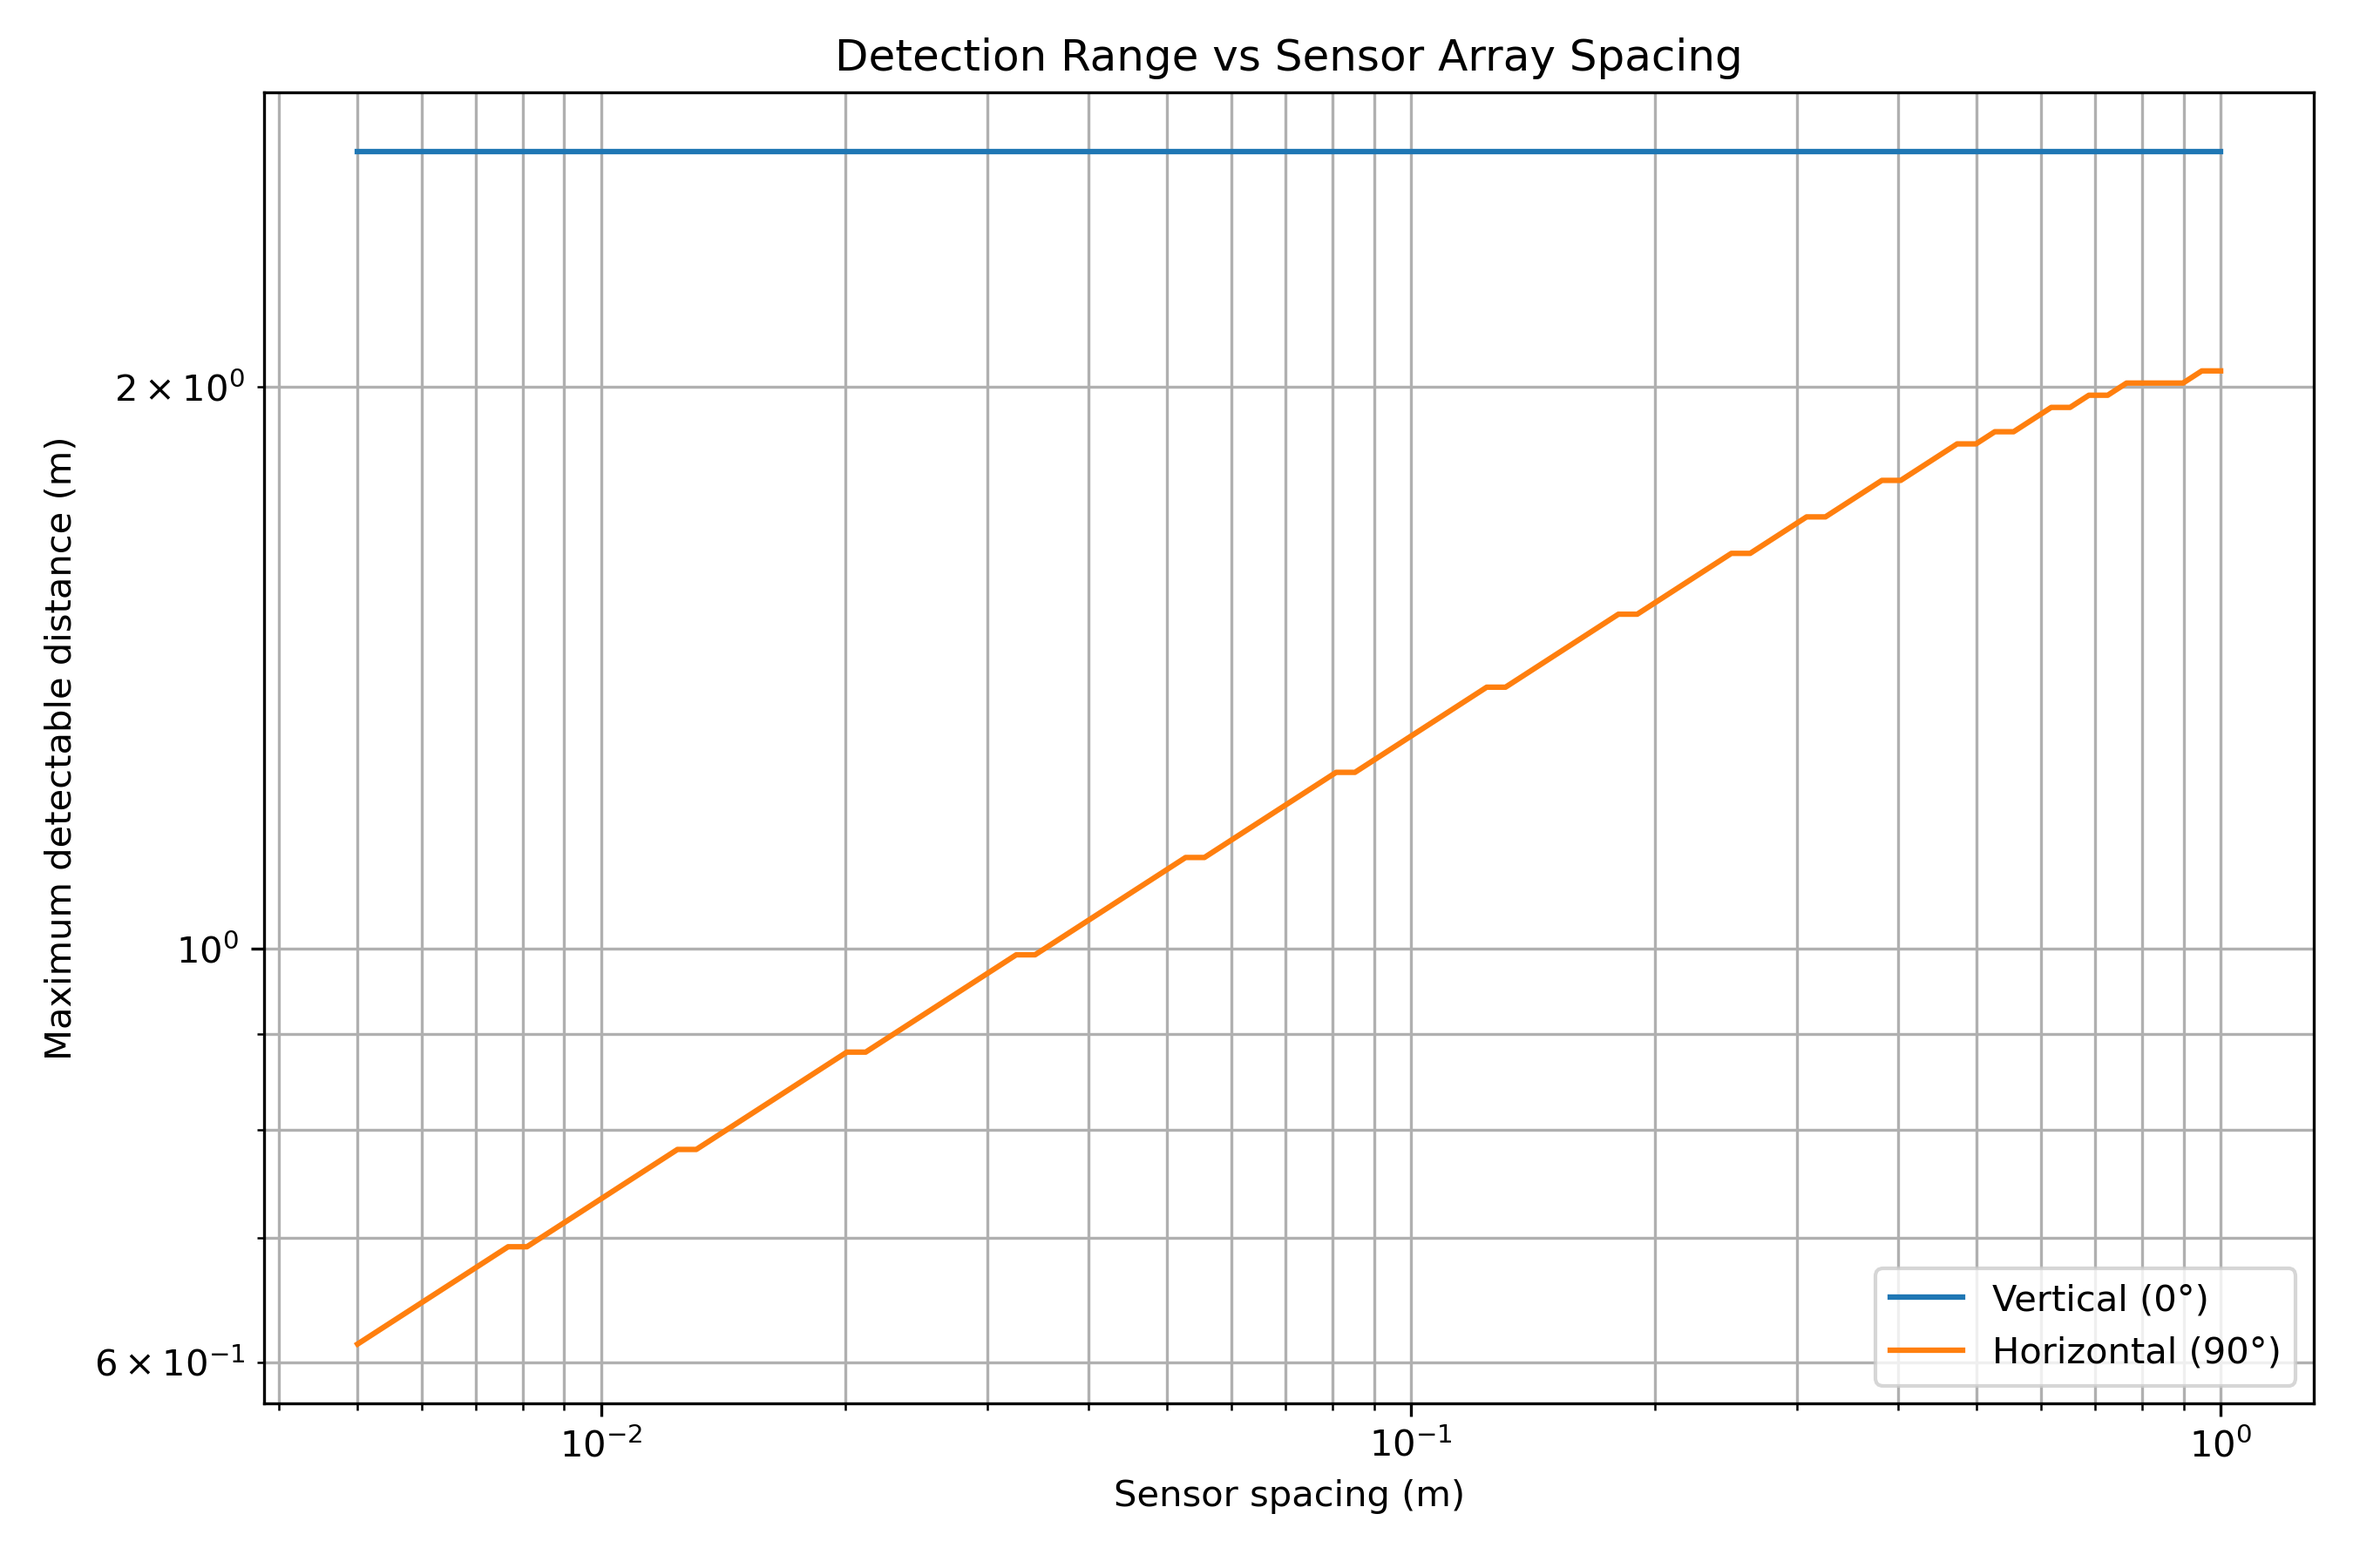
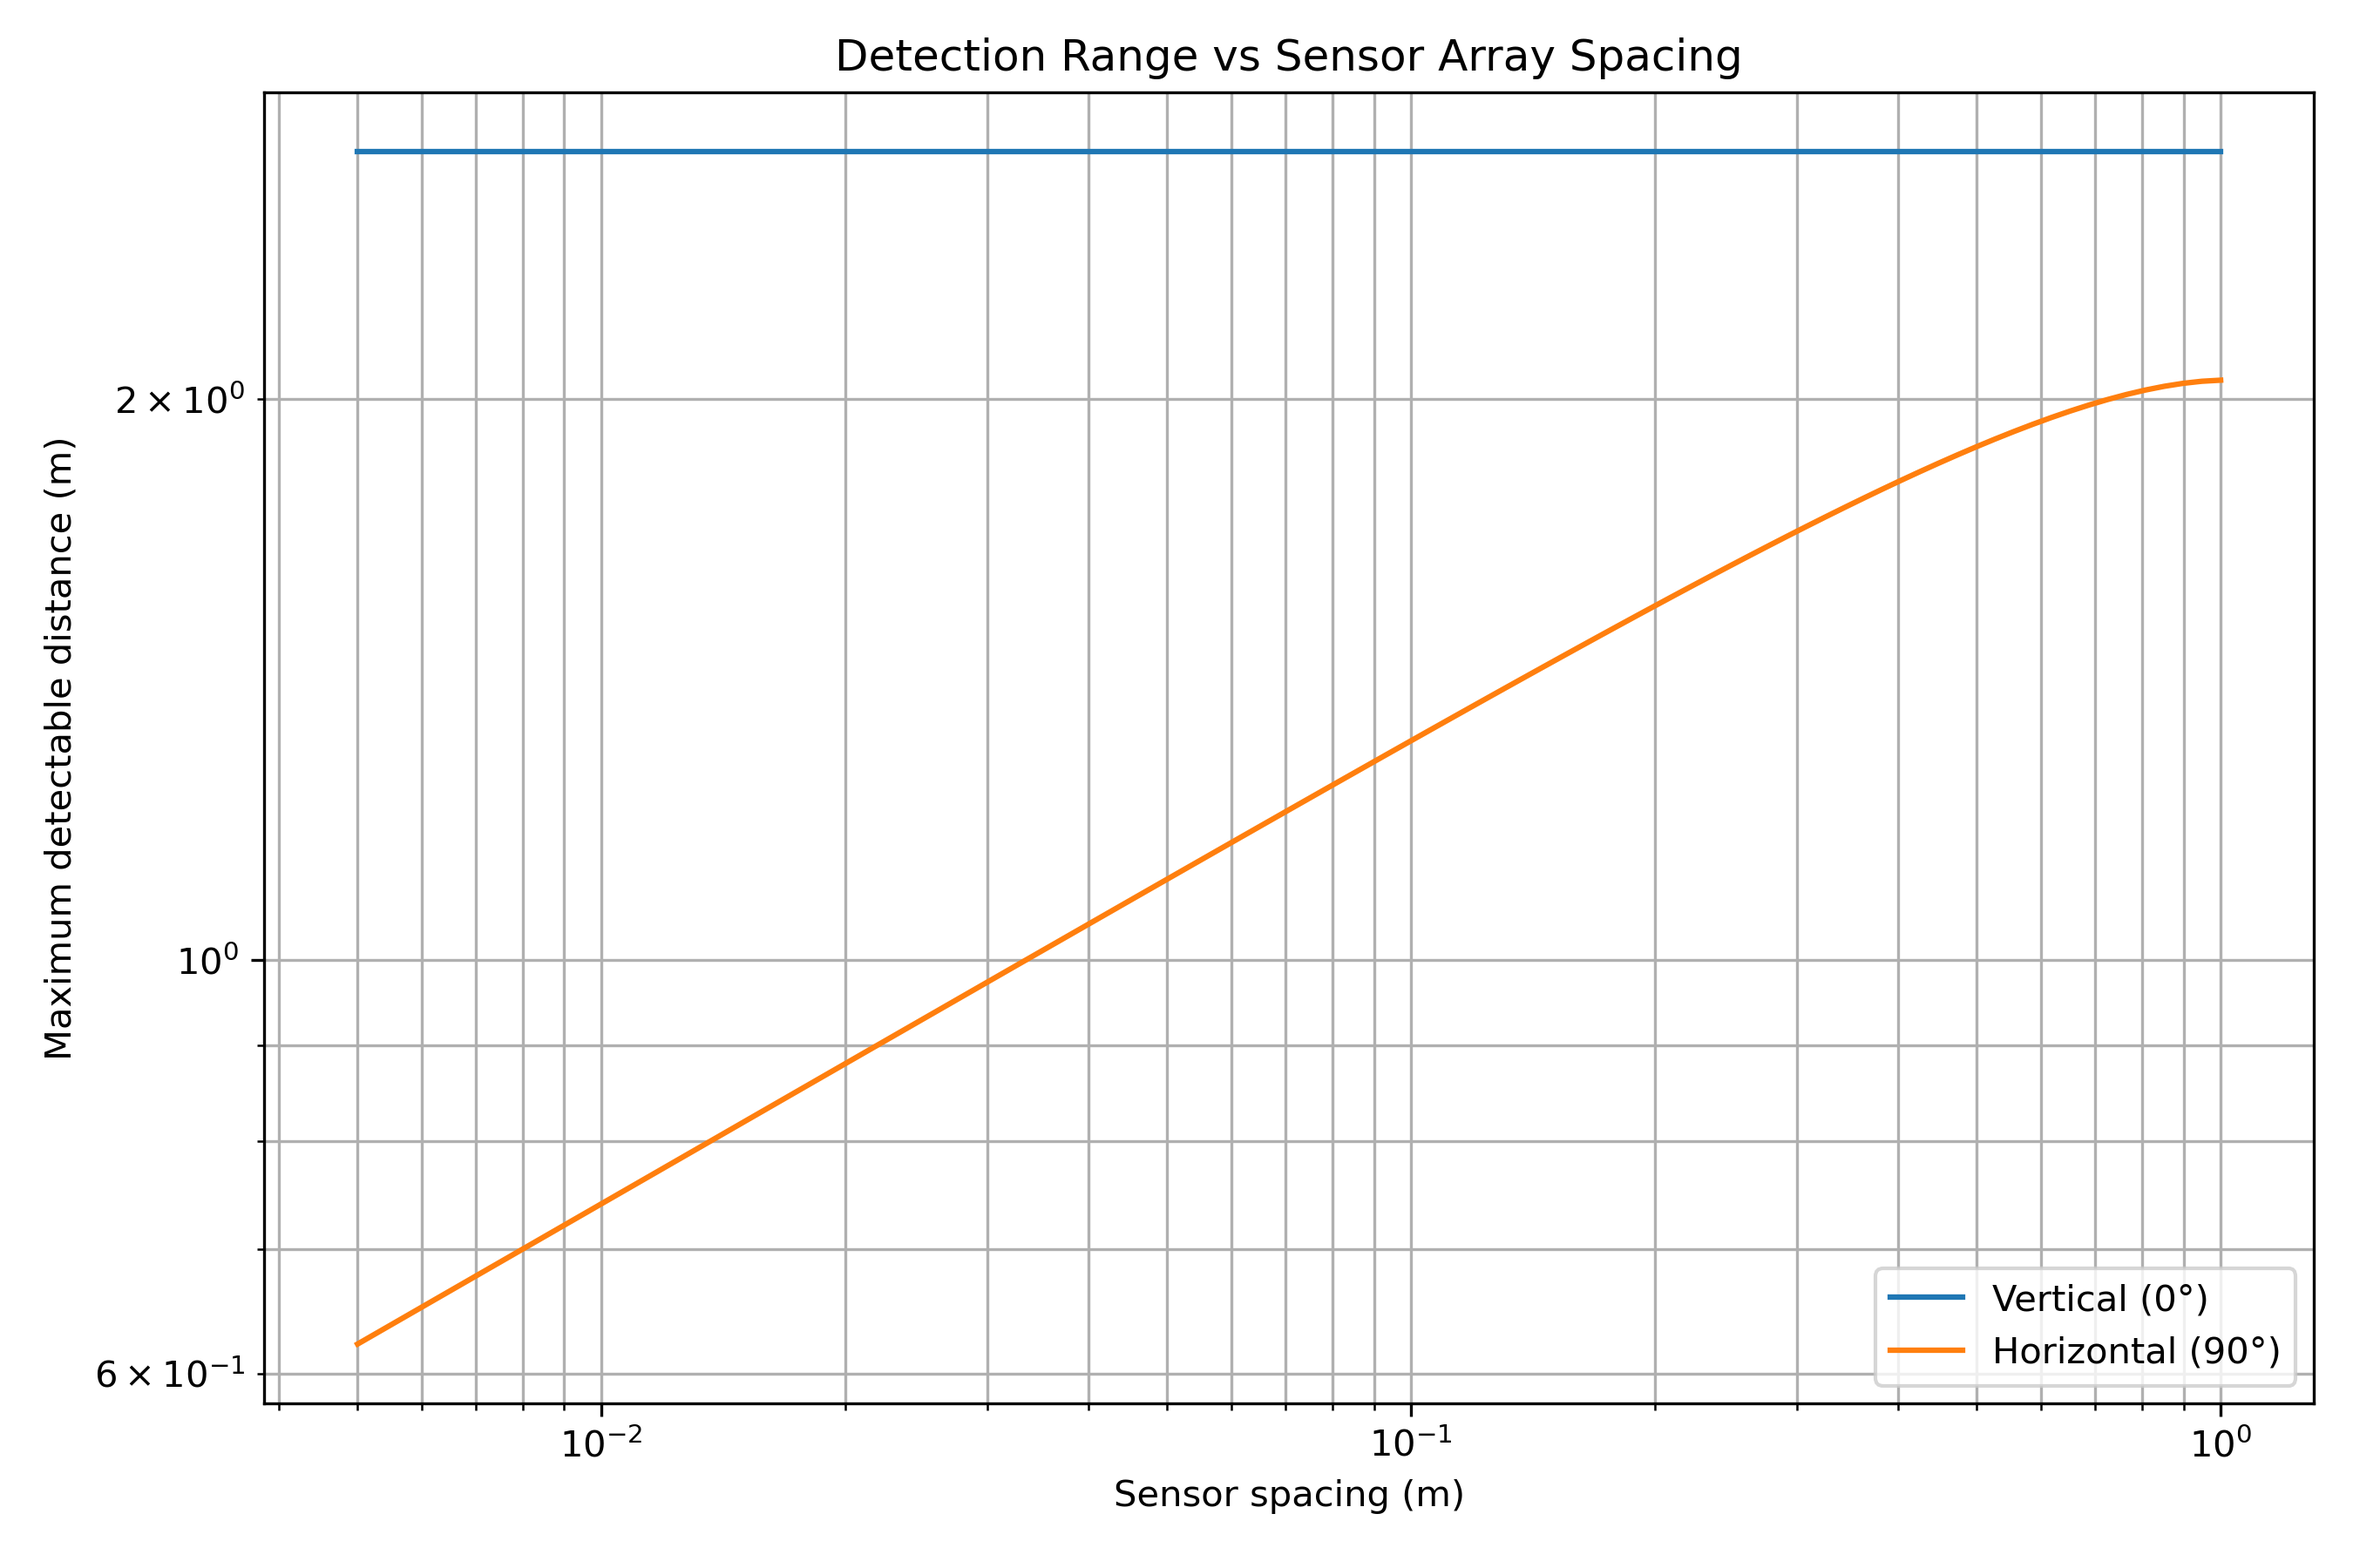
2.1: exact detectable range calulcation (rather than static if a sensor can sense)

diff --git a/experiments/spacing_sweep.py b/experiments/spacing_sweep.py
@@ -5,7 +5,11 @@ from src.dipole import dipole_field
 from src.array import create_planar_array
 
 
-threshold = 10e-9  # 10 nT
+# --------------------------------------------------
+# Configuration
+# --------------------------------------------------
+
+threshold = 10e-9       # 10 nT
 moment_magnitude = 1.0  # A*m^2
 
 spacings = np.logspace(
@@ -14,16 +18,103 @@ spacings = np.logspace(
     100
 )
 
+# Coarse grid used only to find the outer threshold crossing
 distances = np.logspace(
     np.log10(0.05),
     np.log10(20.0),
-    400
+    500
 )
 
 orientations = {
     "Vertical (0°)": np.array([0.0, 0.0, 1.0]),
     "Horizontal (90°)": np.array([1.0, 0.0, 0.0]),
 }
+
+
+# --------------------------------------------------
+# Calculate maximum |Bz| for one configuration
+# --------------------------------------------------
+
+def max_bz_at_distance(sensor_positions, distance, moment):
+    source_position = np.array([
+        0.0,
+        0.0,
+        distance
+    ])
+
+    B = dipole_field(
+        sensor_positions,
+        source_position,
+        moment
+    )
+
+    return np.max(np.abs(B[:, 2]))
+
+
+# --------------------------------------------------
+# Find outermost detection boundary
+# --------------------------------------------------
+
+def find_detection_range(sensor_positions, moment):
+    """
+    Find the outermost distance at which max |Bz|
+    reaches the detection threshold.
+
+    A coarse logarithmic sweep identifies the final
+    detectable/undetectable transition, then bisection
+    refines the threshold crossing.
+    """
+
+    fields = np.array([
+        max_bz_at_distance(
+            sensor_positions,
+            distance,
+            moment
+        )
+        for distance in distances
+    ])
+
+    detectable = fields >= threshold
+
+    # Find transitions from detectable -> undetectable
+    transitions = np.where(
+        detectable[:-1] & ~detectable[1:]
+    )[0]
+
+    if len(transitions) == 0:
+        return np.nan
+
+    # Use the OUTERMOST transition
+    i = transitions[-1]
+
+    low = distances[i]
+    high = distances[i + 1]
+
+    # --------------------------------------------------
+    # Bisection
+    # --------------------------------------------------
+
+    for _ in range(60):
+
+        mid = 0.5 * (low + high)
+
+        field = max_bz_at_distance(
+            sensor_positions,
+            mid,
+            moment
+        )
+
+        if field >= threshold:
+            low = mid
+        else:
+            high = mid
+
+    return 0.5 * (low + high)
+
+
+# --------------------------------------------------
+# Sweep spacing and orientation
+# --------------------------------------------------
 
 results = {
     name: []
@@ -43,33 +134,14 @@ for spacing in spacings:
 
         moment = moment_magnitude * direction
 
-        detectable_distances = []
+        detection_range = find_detection_range(
+            sensor_positions,
+            moment
+        )
 
-        for distance in distances:
-
-            source_position = np.array([
-                0.0,
-                0.0,
-                distance
-            ])
-
-            B = dipole_field(
-                sensor_positions,
-                source_position,
-                moment
-            )
-
-            max_bz = np.max(np.abs(B[:, 2]))
-
-            if max_bz >= threshold:
-                detectable_distances.append(distance)
-
-        if detectable_distances:
-            results[name].append(
-                max(detectable_distances)
-            )
-        else:
-            results[name].append(np.nan)
+        results[name].append(
+            detection_range
+        )
 
 
 # --------------------------------------------------
@@ -114,16 +186,28 @@ plt.show()
 
 print("\nMaximum detectable distance:")
 
-for spacing_target in [0.01, 0.02, 0.05, 0.1, 0.2, 0.5, 1.0]:
+for spacing_target in [
+    0.01,
+    0.02,
+    0.05,
+    0.1,
+    0.2,
+    0.5,
+    1.0
+]:
 
     index = np.argmin(
         np.abs(spacings - spacing_target)
     )
 
-    print(f"\nSpacing: {spacings[index]:.3f} m")
+    print(
+        f"\nSpacing: "
+        f"{spacings[index]:.4f} m"
+    )
 
     for name in orientations:
+
         print(
             f"  {name}: "
-            f"{results[name][index]:.3f} m"
+            f"{results[name][index]:.4f} m"
         )
